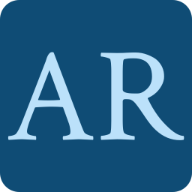
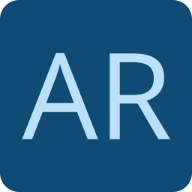
Minor changes

Changed region(s): [[0.0312, 0.25, 0.875, 0.75], [0.7812, 0.5938, 0.9688, 0.75], [0.75, 0.5938, 0.7812, 0.625]]

diff --git a/src/App.css b/src/App.css
@@ -1,6 +1,6 @@
 @import url("https://fonts.googleapis.com/css2?family=Roboto&display=swap");
 @import url("https://fonts.googleapis.com/css2?family=Pangolin&display=swap");
-
+@import url("https://fonts.googleapis.com/css2?family=Montserrat&family=Open+Sans&display=swap");
 /* Styles for plain/common HTML tags*/
 * {
   box-sizing: border-box;
@@ -8,10 +8,19 @@
 
 body {
   margin: 0;
-  font-family: "Roboto", sans-serif;
+  font-family: "Open Sans", sans-serif;
   background-color: #1b262c;
   color: #bbe1fa;
   background-image: url("./images/az-subtle.png");
+}
+
+h1,
+h2,
+h3,
+h4,
+h5,
+h6 {
+  font-family: "Montserrat", sans-serif;
 }
 
 h2 {
@@ -19,6 +28,11 @@ h2 {
   font-size: 2rem;
   width: 100%;
   text-align: center;
+}
+
+h3,
+h4 {
+  font-family: "Montserrat", sans-serif;
 }
 
 ::-webkit-scrollbar {
@@ -49,6 +63,7 @@ h2 {
 .nav-links a {
   text-decoration: none;
   color: #c4e7ff;
+  font-family: "Montserrat", sans-serif;
   display: contents;
   transition: 0.2s;
   transition-timing-function: ease;

diff --git a/src/components/Main/Project/ProjectCard.jsx b/src/components/Main/Project/ProjectCard.jsx
@@ -14,8 +14,11 @@ const useStyles = makeStyles((theme) => ({
     transition: theme.transitions.create("transform", {
       duration: theme.transitions.duration.shortest,
     }),
-    "&:hover, &:focus": {
+    "&:hover": {
       color: "#1b262c",
+    },
+    "&:focus": {
+      color: "#bbe1fa",
     },
   },
   expandOpen: {
@@ -42,9 +45,7 @@ function ProjectCard(props) {
         ></img>
       </div>
       <div className={classes.projectName}>
-        <h4>
-          <strong>{props.projName}</strong>
-        </h4>
+        <h4>{props.projName}</h4>
       </div>
       <div className={classes.projectCardActions}>
         <a
@@ -52,7 +53,7 @@ function ProjectCard(props) {
           target="_blank"
           rel="external"
         >
-          <button className={classes.srcCodeBtn}>SOURCE CODE</button>
+          <button className={classes.srcCodeBtn}>Source Code</button>
         </a>
         <IconButton
           className={`${localClasses.expand} ${

diff --git a/src/components/Main/Timeline/TimeLineItem.jsx b/src/components/Main/Timeline/TimeLineItem.jsx
@@ -12,6 +12,7 @@ import { makeStyles } from "@material-ui/core";
 const useStyles = makeStyles((theme) => ({
   oppositeColor: {
     color: "#c4e7ff",
+    fontFamily: "Open Sans",
   },
   timelineContent: {
     padding: "0 16px",
@@ -32,12 +33,14 @@ const useStyles = makeStyles((theme) => ({
   },
   instituteNameStyle: {
     fontSize: "0.7rem",
+    fontFamily: "Open Sans",
     "@media (min-width: 600px)": {
       fontSize: "1rem",
     },
   },
   yearStyle: {
     fontSize: "0.6rem",
+    fontFamily: "Open Sans",
     "@media (min-width: 600px)": {
       fontSize: "1rem",
     },

diff --git a/src/components/Main/Main.jsx b/src/components/Main/Main.jsx
@@ -12,11 +12,8 @@ const Main = () => {
     <div className={classes.main}>
       <Intro />
       <About />
-      <hr className={classes.footerHR}></hr>
       <Project />
-      <hr className={classes.footerHR}></hr>
       <Timeline />
-      <hr className={classes.footerHR}></hr>
       <Skills />
       <hr className={classes.footerHR}></hr>
       <Footer />

diff --git a/src/components/Main/Skills/SkillCard.jsx b/src/components/Main/Skills/SkillCard.jsx
@@ -18,6 +18,7 @@ const useStyles = makeStyles((theme) => ({
     color: "#bbe1fa",
     "& p": {
       color: "#bbe1fa",
+      fontFamily: "Open Sans",
     },
     "& i": {
       display: "block",
@@ -26,6 +27,7 @@ const useStyles = makeStyles((theme) => ({
     },
     "& h5": {
       margin: "10px auto",
+      fontFamily: "Montserrat",
     },
   },
 }));

diff --git a/src/components/Navigation/Sidebar/Sidebar.module.css b/src/components/Navigation/Sidebar/Sidebar.module.css
@@ -82,6 +82,7 @@
   height: 4rem;
   text-decoration: none;
   color: #c4e7ff;
+  font-family: "Montserrat", sans-serif;
   transition: 0.2s;
   transition-timing-function: ease;
   display: flex;

diff --git a/src/components/Main/Project/projectCard.module.css b/src/components/Main/Project/projectCard.module.css
@@ -42,6 +42,7 @@
   background-color: inherit;
   padding: 7px;
   transition: all 0.3s ease-out;
+  font-family: "Open Sans", sans-serif;
 }
 
 .srcCodeBtn:hover {

diff --git a/src/components/Main/main.module.css b/src/components/Main/main.module.css
@@ -7,6 +7,6 @@
 .footerHR {
   margin: 40px auto;
   border: 0;
-  border-top: 10px dotted;
-  width: 60px;
+  border-top: 2px solid;
+  width: 70%;
 }

diff --git a/src/components/Navigation/MobileMenu/MobileMenu.module.css b/src/components/Navigation/MobileMenu/MobileMenu.module.css
@@ -30,6 +30,7 @@
   text-align: center;
   font-weight: bold;
   font-size: 1rem;
+  font-family: "Montserrat", sans-serif;
   color: #d8d8d8;
 }
 

diff --git a/src/components/Main/Intro/intro.module.css b/src/components/Main/Intro/intro.module.css
@@ -18,7 +18,6 @@
 }
 
 .introContent h1 {
-  font-family: "Pangolin", cursive;
   font-size: 3rem;
   margin: 0;
 }
